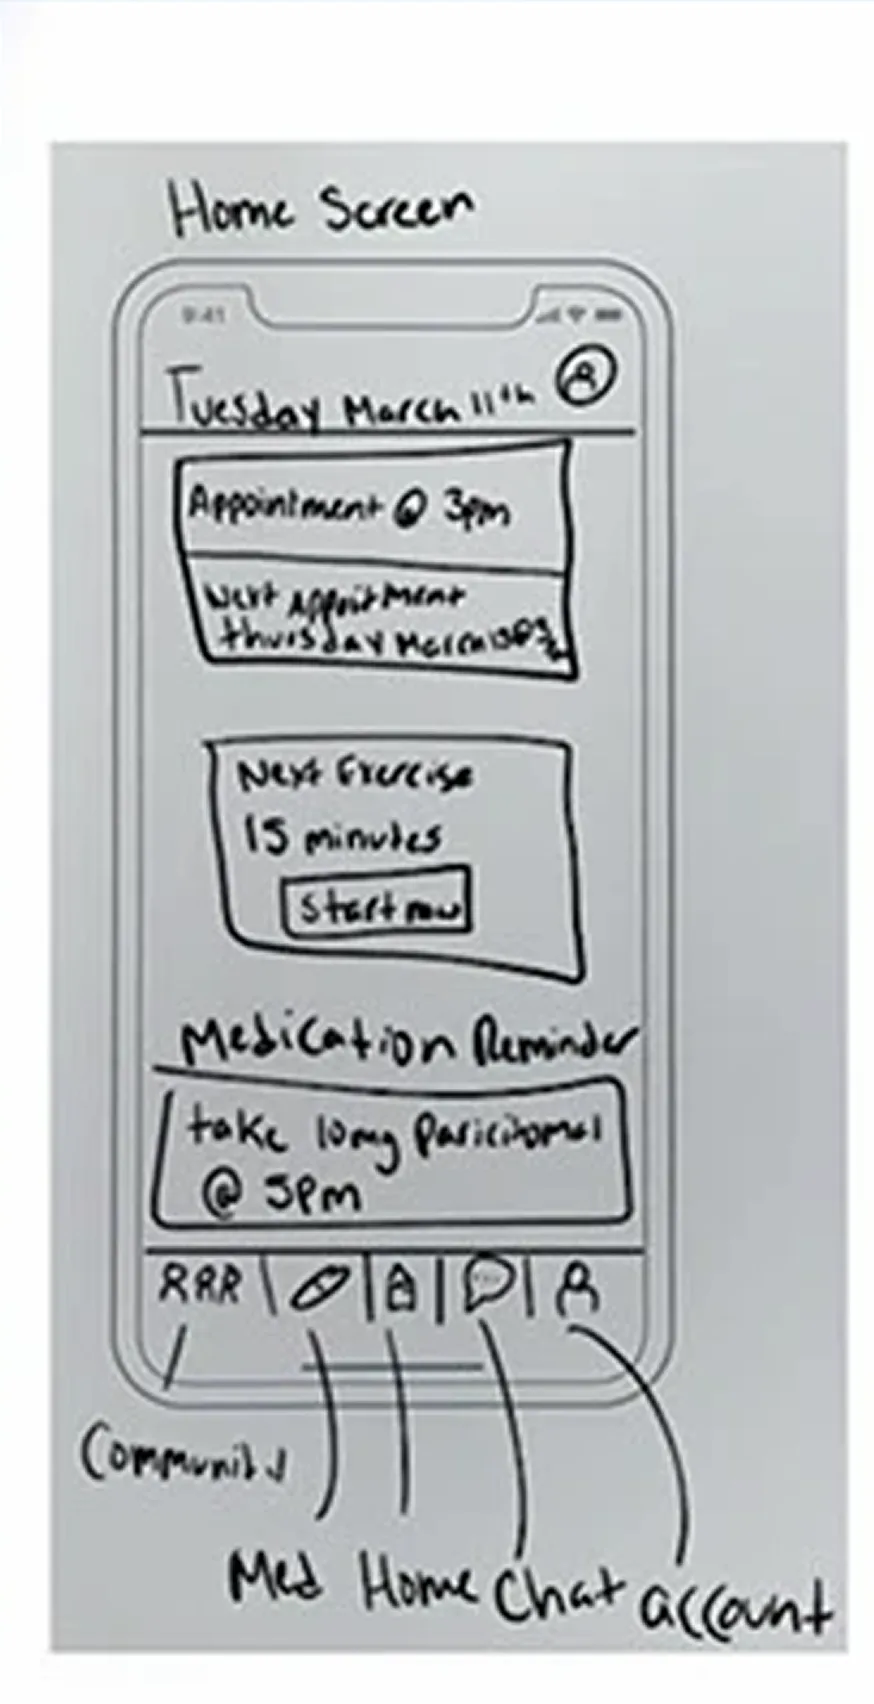
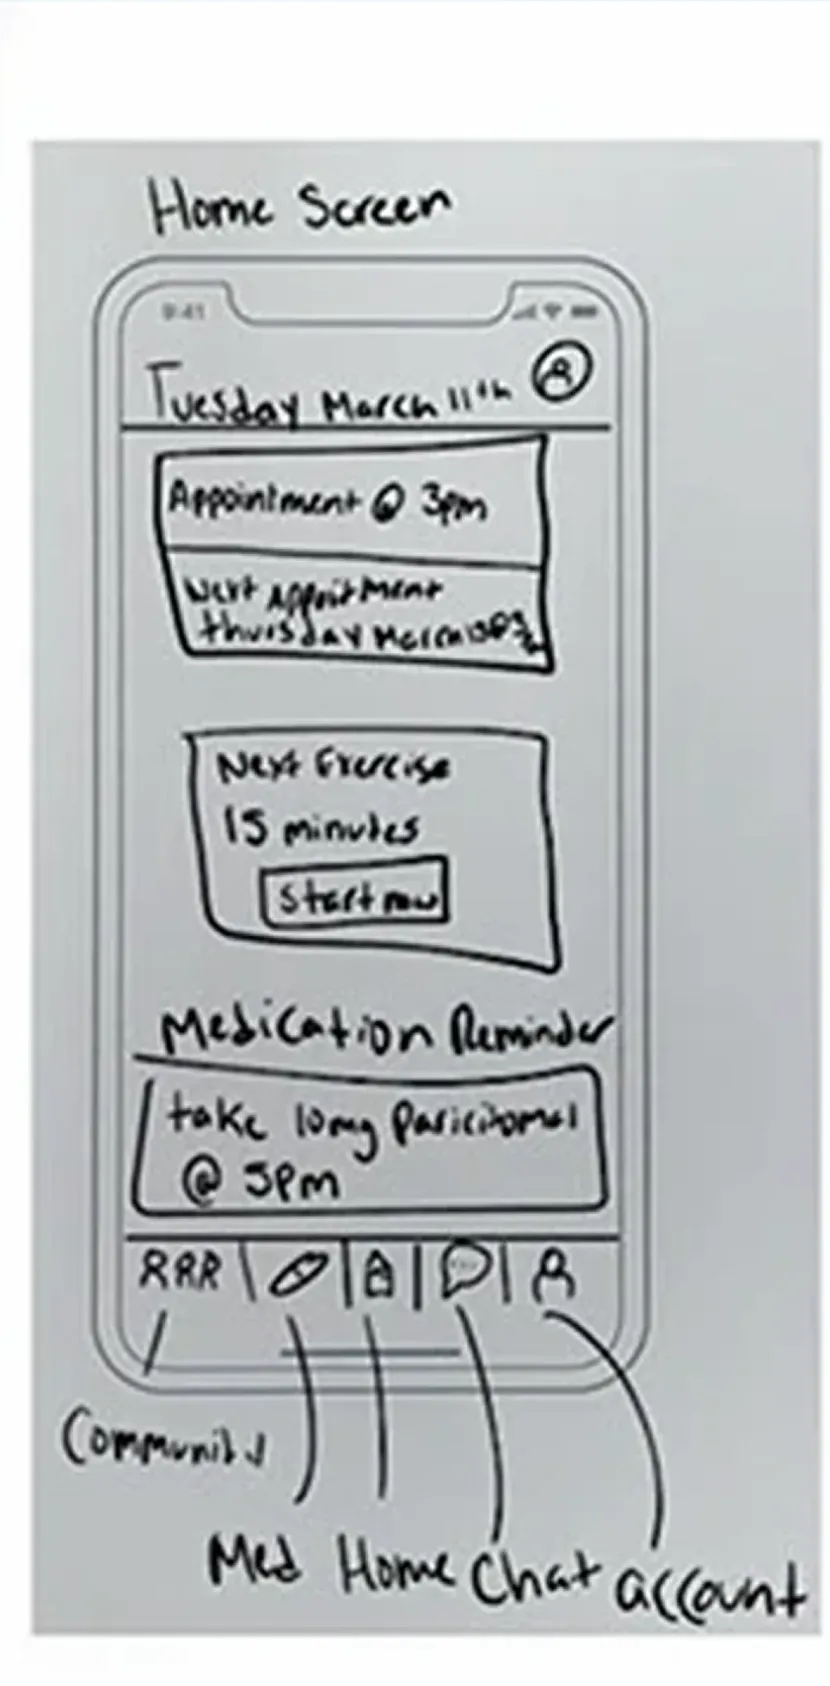
Serve images through next/image
The screens ship at 830x1686 and the boards at 2400px wide but render a
few hundred pixels across, so every page handed the browser the full
file with no srcset and no format negotiation.

- Figure uses fill + object-cover behind a per-ratio `sizes` hint; the
  slot wrapper gains `relative` so fill has something to resolve against
- TiltedCard keeps its motion.img for the tilt and pulls src/srcset from
  getImageProps instead
- The case-study hero and the Hero portrait load eager; both were
  lazy despite being the LCP candidates on their pages
- Recrop home-1-sketch to 830x1686 so it matches the phone slot and the
  other twelve screens

Measured on the case study: a phone screen resolves to a 256px
candidate, 47KB down from the 830px source, and the hero portrait to
15KB from 66KB.

A Playwright test pins that every figure points at /_next/image with a
srcset and a sizes.

diff --git a/components/case-study/figure.tsx b/components/case-study/figure.tsx
@@ -1,3 +1,5 @@
+import Image from "next/image";
+
 // Ratios match the real exports rather than idealised device sizes, so nothing
 // is cropped: the screens ship at 830x1686 and the style-guide board at 16:9.
 const RATIO = {
@@ -6,6 +8,16 @@ const RATIO = {
   // than the viewport at full container width.
   banner: "aspect-[12/5]",
   wide: "aspect-[16/9]",
+} as const;
+
+// Rendered width per slot, so the browser can pick a candidate from the srcset
+// instead of assuming 100vw. Phones cap at ~184px (a max-w-sm/max-w-3xl grid
+// column); banner and wide run the full max-w-6xl reading container, 1104px
+// once its px-6 padding is removed.
+const SIZES = {
+  phone: "200px",
+  banner: "(min-width: 1152px) 1104px, calc(100vw - 48px)",
+  wide: "(min-width: 1152px) 1104px, calc(100vw - 48px)",
 } as const;
 
 type Ratio = keyof typeof RATIO;
@@ -41,27 +53,31 @@ export function Figure({
   label,
   caption,
   ratio = "wide",
+  eager = false,
 }: {
   src?: string;
   alt: string;
   label: string;
   caption?: string;
   ratio?: Ratio;
+  // Set on the one figure above the fold. Everything else stays lazy.
+  eager?: boolean;
 }) {
   return (
     <figure>
       <div
-        className={`${RATIO[ratio]} overflow-hidden rounded-lg ${
+        className={`relative ${RATIO[ratio]} overflow-hidden rounded-lg ${
           src ? "border border-ink/10" : "border border-dashed border-ink/25 bg-mist"
         }`}
       >
         {src ? (
-          // eslint-disable-next-line @next/next/no-img-element
-          <img
+          <Image
             src={src}
             alt={alt}
-            loading="lazy"
-            className="h-full w-full object-cover"
+            fill
+            sizes={SIZES[ratio]}
+            loading={eager ? "eager" : "lazy"}
+            className="object-cover"
           />
         ) : (
           <div className="flex h-full w-full flex-col items-center justify-center gap-3 p-4 text-center text-ink/70">

diff --git a/e2e/case-study.spec.ts b/e2e/case-study.spec.ts
@@ -260,6 +260,35 @@ test.describe("NextStep case study — image placeholders", () => {
     }
   });
 
+  test("serves every screen through the image optimiser, not at source size", async ({
+    page,
+  }) => {
+    // The screens ship at 830x1686 and the boards at 2400px wide, but render a
+    // few hundred pixels across. A plain <img> hands the browser the full file,
+    // so this pins the srcset and the sizes hint that make it pick a candidate.
+    const images = await page.evaluate(() =>
+      [...document.querySelectorAll("figure img")].map((i) => {
+        const img = i as HTMLImageElement;
+        return {
+          alt: img.alt,
+          srcset: img.srcset,
+          sizes: img.sizes,
+          // The attribute, not currentSrc: these are lazy and below the fold,
+          // so nothing has resolved a candidate yet when the test runs.
+          optimised: (img.getAttribute("src") ?? "").includes("/_next/image"),
+        };
+      }),
+    );
+
+    expect(images.length).toBeGreaterThan(5);
+    for (const img of images) {
+      expect(img.optimised, `${img.alt} bypasses the optimiser`).toBe(true);
+      expect(img.srcset.length, `${img.alt} has no srcset`).toBeGreaterThan(0);
+      // Without `sizes` the browser assumes 100vw and over-fetches.
+      expect(img.sizes.length, `${img.alt} has no sizes hint`).toBeGreaterThan(0);
+    }
+  });
+
   test("keeps a phone mockup near handset proportions, not viewport-tall", async ({
     page,
   }) => {

diff --git a/components/CaseStudies.tsx b/components/CaseStudies.tsx
@@ -1,6 +1,7 @@
 "use client";
 
 import { useState } from "react";
+import Image from "next/image";
 import Link from "next/link";
 import { AnimatePresence, motion, useReducedMotion } from "motion/react";
 import { DrawRule } from "@/components/ui/draw-rule";
@@ -14,11 +15,13 @@ const isPlaceholder = (p: Project) => p.title.startsWith("[");
 function Thumb({ project }: { project: Project }) {
   if (project.image) {
     return (
-      // eslint-disable-next-line @next/next/no-img-element
-      <img
+      <Image
         src={project.image}
         alt={`${project.title} — preview`}
-        className="h-full w-full object-cover"
+        fill
+        // 300px is the expanded width; the row never renders it larger.
+        sizes="300px"
+        className="object-cover"
       />
     );
   }
@@ -72,7 +75,7 @@ function ComingSoonRow({ project }: { project: Project }) {
         <span className="hidden w-6 shrink-0 font-mono text-xs tabular-nums text-ink/70 sm:block">
           {project.index}
         </span>
-        <div className="h-14 w-[76px] shrink-0 overflow-hidden rounded-lg border border-ink/10 opacity-60">
+        <div className="relative h-14 w-[76px] shrink-0 overflow-hidden rounded-lg border border-ink/10 opacity-60">
           <Thumb project={project} />
         </div>
         <div className="flex min-w-0 flex-1 items-baseline justify-between gap-4">

diff --git a/components/ui/tilted-card.jsx b/components/ui/tilted-card.jsx
@@ -1,6 +1,7 @@
 'use client';
 
 import { useRef, useState } from 'react';
+import { getImageProps } from 'next/image';
 import { motion, useMotionValue, useSpring } from 'motion/react';
 import './tilted-card.css';
 
@@ -23,9 +24,20 @@ export default function TiltedCard({
   showMobileWarning = true,
   showTooltip = true,
   overlayContent = null,
-  displayOverlayContent = false
+  displayOverlayContent = false,
+  eager = false
 }) {
   const ref = useRef(null);
+
+  // The image has to stay a motion.img for the tilt, so the optimised src and
+  // srcset are pulled off next/image rather than rendering <Image> itself.
+  const { props: imageProps } = getImageProps({
+    src: imageSrc,
+    alt: altText,
+    width: parseInt(imageWidth, 10),
+    height: parseInt(imageHeight, 10),
+    loading: eager ? 'eager' : 'lazy'
+  });
 
   const x = useMotionValue(0);
   const y = useMotionValue(0);
@@ -102,8 +114,7 @@ export default function TiltedCard({
         }}
       >
         <motion.img
-          src={imageSrc}
-          alt={altText}
+          {...imageProps}
           className="tilted-card-img"
           style={{
             width: imageWidth,

diff --git a/app/layout.tsx b/app/layout.tsx
@@ -26,8 +26,13 @@ const serif = Instrument_Serif({
 const DESCRIPTION =
   "Dilip Rapaka is a UX & product designer in the UK, designing simple, thoughtful digital experiences for healthcare and everyday complexity. Open to junior UX & product roles.";
 
+// The OG and Twitter cards need absolute URLs, so this has to be the real
+// production origin. Set NEXT_PUBLIC_SITE_URL in the Vercel project once the
+// final domain is known; the fallback is the default Vercel subdomain.
+const SITE_URL = process.env.NEXT_PUBLIC_SITE_URL ?? "https://diliprapaka.vercel.app";
+
 export const metadata: Metadata = {
-  metadataBase: new URL("https://diliprapaka.vercel.app"),
+  metadataBase: new URL(SITE_URL),
   title: {
     default: "Dilip Rapaka — Product Designer",
     template: "%s · Dilip Rapaka",

diff --git a/app/work/nextstep/page.tsx b/app/work/nextstep/page.tsx
@@ -282,6 +282,7 @@ export default function NextStepCaseStudy() {
             <div className="anim-fade-up mt-14" style={{ animationDelay: "200ms" }}>
               <Figure
                 ratio="banner"
+                eager
                 src="/nextstep/hero.webp"
                 label="Hero — key app screens"
                 alt="NextStep app key screens"

diff --git a/components/Hero.tsx b/components/Hero.tsx
@@ -223,6 +223,7 @@ export default function Hero() {
                 imageHeight="350px"
                 rotateAmplitude={9}
                 scaleOnHover={1.04}
+                eager
                 showMobileWarning={false}
                 showTooltip
               />

diff --git a/PROGRESS.md b/PROGRESS.md
@@ -2,7 +2,7 @@
 
 Working doc for **Dilip Rapaka's UX / Product Designer portfolio**. Hand this to a new chat to continue the work.
 
-Last updated: 2026-08-13 · Status: **tsc 0 · eslint 0 · vitest 21/21 · playwright 72/72 · build green**
+Last updated: 2026-08-14 · Status: **tsc 0 · eslint 0 · vitest 21/21 · playwright 73/73 · build green**
 
 ---
 
@@ -164,7 +164,12 @@ Server component; only `Reveal` and `SusScores` are client islands. Primitives i
 14 images in `public/nextstep/*.webp` (916KB total), all wired. Prototype link is live via `PROTOTYPE_URL` in `nextstep-screens.tsx`.
 
 - ⚠ **Slot ratios match the real exports, not idealised device sizes** — `phone` is `aspect-[830/1686]` and `wide` is `16/9`. Changing them to "clean" numbers like `9/19.5` will start cropping the screens.
-- Converted PNG → WebP with sharp: **5.88MB → 0.82MB (−86%)**, style guide downscaled to 2400px. These are plain `<img>` tags with **no automatic optimisation**, so re-uploading raw PNGs puts ~6MB back on the page.
+- Converted PNG → WebP with sharp: **5.88MB → 0.82MB (−86%)**, style guide downscaled to 2400px.
+- **Everything routes through `next/image`.** `Figure` uses `fill` + `object-cover`, so **the slot wrapper must keep its `relative` class** — `fill` is absolutely positioned and will escape to the nearest positioned ancestor without it.
+  - Each ratio carries a **`sizes` hint** (`SIZES` in `figure.tsx`); without one the browser assumes `100vw` and over-fetches. Measured: a phone screen drops from the 830px source to a **256px candidate (47KB → 15KB)**. Keep `sizes` in step with the grid caps in `COLS` if those change.
+  - The `<img>` in `tilted-card.jsx` has to stay a `motion.img` for the tilt, so it pulls its src/srcset from **`getImageProps`** instead of rendering `<Image>`.
+  - Only the case-study hero and the Hero portrait are `eager`; everything else is lazy. In Next 16 `priority` is **deprecated** — use `preload`, or `loading="eager"`, which is what these do.
+  - A test asserts every case-study figure points at `/_next/image` and carries a `srcset` and a `sizes`. It reads the **`src` attribute, not `currentSrc`** — the screens are lazy and below the fold, so nothing has resolved a candidate while the test runs.
 - ⚠ **A filled `<Figure>` drops its label on purpose** (the image replaces it). Any test asserting "every figure contains text" breaks on the first upload — the figure test checks *filled → non-empty `alt`, empty → non-empty label*.
 - `IMAGES.md` (repo root) is the step-by-step Figma export guide — export ratios, filenames, the one-line edit per slot. It describes the **original** workflow (PNG, a combined Notifications+Profile collage); the shipped setup differs. Treat it as the guide for *future* case studies.
 
@@ -190,7 +195,7 @@ npm run test:all
 ## 10. Open items
 
 1. **More real projects.** The single biggest lever. Add to `PROJECTS` in `lib/projects.ts` — bracketed placeholders render as "Coming soon" rows.
-2. **Consider `next/image`.** Images are plain `<img>` with no srcset or automatic format negotiation.
-3. **Deploy to Vercel** and update `metadataBase` in `app/layout.tsx`.
+2. ~~Consider `next/image`.~~ **Done** — see §8.
+3. **Deploy to Vercel.** `metadataBase` now reads `NEXT_PUBLIC_SITE_URL` and falls back to `https://diliprapaka.vercel.app`; **set that env var in the Vercel project once the real domain is known**, or the OG and Twitter cards point at the wrong origin. Nothing else is deploy-gated: `app/icon.svg` and `app/opengraph-image.tsx` already generate the favicon and the social card, and `npm run build` is green with all 7 routes static.
 4. **Aesthetic-lane question (strategic, Dilip's call).** An `/impeccable` audit scored **14/20** and flagged that the site sits in the currently-saturated "editorial-typographic" lane (display serif + mono labels + ruled separators + monochrome), and that both typefaces are on its reflex-reject list. Identity-preservation says leave committed choices alone, and the slop detector returns clean — but it's worth knowing the first build was rejected as generic and this lane has since become the *next* generic.
-5. Minor: `home-1-sketch.webp` is 874×1704 while the other twelve are 830×1686, so it crops ~4.5%. Invisible on a sketch.
+5. ~~`home-1-sketch.webp` is 874×1704 while the other twelve are 830×1686.~~ **Done** — recropped to 830×1686 (52KB → 47KB). It only ever removed the 4% the browser was already discarding, so the rendered result is unchanged; the file now just matches the slot.
